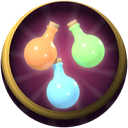
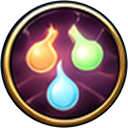
약사 스킬창: 아이콘 15개를 참고 그림에서 다시 자르고 칸 높이·배열을 맞춤
Claude-Session: https://claude.ai/code/session_018W6Dd9EFKmcsE9QZYMxXiJ

diff --git a/index.html b/index.html
@@ -655,6 +655,9 @@ small { font-size:.8em; }
   background:linear-gradient(#22406f, #142a52); box-shadow:inset 0 -2px 0 #c9973a; text-shadow:0 2px 0 #050c1c; }
 .fancy .skcat .r { margin-left:auto; }
 .fancy .skrow { gap:14px; padding:8px 12px; margin-bottom:8px; border-radius:10px; background:linear-gradient(#1f3a66, #172d52); box-shadow:inset 0 0 0 1.5px rgba(201,151,58,.55); color:#f4ead2; }
+/* 2026-11-11 참고 그림대로: 세 갈래의 칸 높이를 모두 같게(한 줄짜리 제작·패시브 칸도) → 가로줄이 서로 맞음, 아이콘 크게 */
+.fancy .skcol { display:flex; flex-direction:column; } .fancy .skrow { flex:1 1 0; min-height:122px; box-sizing:border-box; } .fancy .skrow:last-child { margin-bottom:0; }
+.fancy .skrow > .icon { flex:none; } .skrow .sktype, .skrow .sktag { white-space:nowrap; display:inline-block; }
 .fancy .skrow.learned { background:linear-gradient(#24427a, #1a335e); }
 .fancy .skrow.sel { outline:none; box-shadow:inset 0 0 0 2px #f2c040, 0 0 0 1px #8a5a14, 0 0 16px rgba(240,190,70,.55); }
 .fancy .skrow b { font-size:27px; color:#fff8e4; } .fancy .skrow .skinfo .small { font-size:18px; color:#e6dcc4; margin-top:3px; }
@@ -682,7 +685,7 @@ small { font-size:.8em; }
 .fancy .skslot.ult { outline:none; } .fancy .skslot.ult .skempty-slot, .fancy .skslot.ult > .icon { box-shadow:inset 0 0 0 2px #a060e0, 0 0 0 2px #7a3ab8, 0 0 10px rgba(160,96,224,.6); }
 .fancy .skslot.ult small { color:#6a2aa8; } .fancy .skslots .sknote { margin-left:24px; font-size:20px; color:#3b2a17; }
 .fancy .skempty { color:var(--ink); }
-.fancy .skdetail > .small { position:relative; font-size:20px; color:#e6dcc4; max-width:62%; }
+.window.fancy .skdetail > .small, .window.fancy .skdetail > .small.muted { position:relative; font-size:23px; line-height:1.55; color:#f4ead2; opacity:1; max-width:60%; }
 /* ---------- the other windows in the same ornate style: shop, quests, craft, jobs, pause/settings, confirm, death ---------- */
 .window.fancy .small { font-size:17px; } .window.fancy .muted { color:#7a6448; } .window.fancy .goldtxt { color:#9a6a10; } .window.fancy .good { color:#2e8a48; } .window.fancy .bad { color:#c0382a; }
 .window.fancy .sect { display:flex; align-items:center; gap:10px; margin:-10px -10px 10px; padding:10px 18px; border-radius:9px 9px 0 0; font-size:24px; color:#f6e6bf;

diff --git a/js/skillui.js b/js/skillui.js
@@ -109,7 +109,7 @@ Object.assign(UI.prototype, {
         const [tn, tc] = TYPE[d.type];
         const equipped = sk.slots.includes(d.id);
         const row = $('div', 'skrow' + (L ? ' learned' : '') + (this.skSel === d.id ? ' sel' : ''), col,
-          `${skillIcon(d, 76)}<div class="skinfo"><div><b>${d.name}</b> <span class="sktype t-${d.type}" style="background:${tc}">${tn}</span>${equipped ? ' <span class="sktag eq">장착</span>' : ''}</div>` +
+          `${skillIcon(d, 90)}<div class="skinfo"><div><b>${d.name}</b> <span class="sktype t-${d.type}" style="background:${tc}">${tn}</span>${equipped ? ' <span class="sktag eq">장착</span>' : ''}</div>` +
           `<div class="small">Lv <b>${L}</b>/${d.maxLv} · 해금 Lv${book.unlockLevel(d)}${d.mp ? ` · 기력 ${d.mp}` : ''}${d.cd ? ` · ${d.cd}초` : ''}${d.range && d.type !== 'passive' && d.type !== 'craft' ? ` · 사거리 ${d.range}m` : ''}</div></div>`);
         row.onclick = () => { this.skSel = d.id; G.audio.sfx('ui'); this.showSkills(show); };
         if (!max) { const lb = this.button(row, L ? '강화' : '습득', blk ? 'ivory lockb' : L ? 'gold' : 'blue', () => { const e = book.learn(d.id); if (e) return this.toast(e); G.audio.sfx('levelup'); this.showSkills(show); }); lb.classList.add('small'); if (blk) { lb.classList.add('locked'); lb.title = blk; } }

diff --git a/tools/browser-tests/skillicons.js b/tools/browser-tests/skillicons.js
@@ -22,7 +22,7 @@ const OUT = process.env.OUT || '/tmp/skillicons'; fs.mkdirSync(OUT, { recursive:
     R.win = await ev(() => ({ arts: document.querySelectorAll('.window .skart, .window .skround').length, slots: [...document.querySelectorAll('.skslot small')].map(x => x.textContent) }));
     await pg.screenshot({ path: `${OUT}/skillicons_win_${sz}.png`, timeout: 300000 });
     // 약사 1차 탭 (전직 조건은 건너뛰고 직업만 바꿈)
-    await ev(() => { G.ui.close && G.ui.close(); const s = G.player.sheet; s.p.job = 'pharmacist'; s.refreshSkills && s.refreshSkills(true); s.book.grantPoints(); s.recalc(); for (const id of ['ph1_a1', 'ph1_b1', 'ph1_c3']) s.book.learn(id); s.recalc(); G.ui.showSkills('pharmacist'); });
+    await ev(() => { G.ui.close && G.ui.close(); const s = G.player.sheet; s.p.job = 'pharmacist'; s.refreshSkills && s.refreshSkills(true); s.book.grantPoints(); s.recalc(); for (const id of ['ph1_a1', 'ph1_b1']) s.book.learn(id); s.recalc(); G.ui.showSkills('pharmacist'); });
     await pg.waitForTimeout(1200);
     R.ph = await ev(() => document.querySelectorAll('.window .skround').length);
     await pg.screenshot({ path: `${OUT}/skillicons_ph_${sz}.png`, timeout: 300000 });

diff --git a/tools/ui/skill_icons_crop.py b/tools/ui/skill_icons_crop.py
@@ -1,6 +1,6 @@
 """스킬 아이콘을 사용자가 준 스킬창 참고 그림(tools/ui/ref/*.png)에서 잘라 assets/ui/skills/<id>.png(128 px)로 만든다.
 - 견습생 기본 검술 8종: skill_window_ref.png, 둥근 사각형(모서리 밖 투명)
-- 약사 1차 15종: pharmacist_ref.png, 원형(원 밖 투명)
+- 약사 1차 15종: pharmacist_ref2.png(개편 뒤 스킬창), 원형(원 밖 투명). 예전 pharmacist_ref.png는 보관만
 게임은 js/skillui.js `SKILL_ART`로 씀.
 Usage: python3 tools/ui/skill_icons_crop.py
 """
@@ -41,18 +41,20 @@ def circle_box(im, cx, cy, r=52):
     mx, my = (x0 + x1) / 2, (y0 + y1) / 2
     return (round(cx - r + mx - d / 2), round(cy - r + my - d / 2), round(cx - r + mx + d / 2), round(cy - r + my + d / 2))
 
+# 2026-11-11 두 번째 참고 그림(개편 뒤 스킬창, tools/ui/ref/pharmacist_ref2.png 1482x1061): 15칸 모두 지금 스킬 그대로
+SRC_PH2 = os.path.join(ROOT, 'tools/ui/ref/pharmacist_ref2.png')
+PH2_COLS = {'a': 75, 'b': 560, 'c': 1047}
+PH2_ROWS = [235, 347, 460, 572, 680]
+PH2_IDS = {'a': ['ph1_a1', 'ph1_a4', 'ph1_a3', 'ph1_a6', 'ph1_a5'], 'b': ['ph1_b1', 'ph1_b2', 'ph1_b6', 'ph1_b4', 'ph1_b5'],
+           'c': ['ph1_c1', 'ph1_c7', 'ph1_c6', 'ph1_c8', 'ph1_c9']}
+
+PH2_FIXED = {'ph1_c7': (1010, 308, 1086, 384)}   # 파란 그림이 남색 배경과 섞여 자동으로 못 찾음
+
 def pharmacist():
-    im = Image.open(SRC_PH).convert('RGB')
-    # 2026-11-11 약사 개편: 그림의 칸 -> 지금 스킬 id. 지운 스킬(두 번 치기·전격 약병·활력제 제작·응급 복용·정화 약제)의 칸은
-    # 쓰지 않음, '약물 조제'(c 5번째, 위로 솟는 초록 화살표) 그림은 새 패시브 '약사 수련'(ph1_c9)에 씀. 새 스킬 그림은
-    # tools/blender/fx_pharm.py가 Blender로 그림(ph1_a6·b6·c6·c7·c8)
-    use = {('a', 1): 'ph1_a1', ('a', 3): 'ph1_a3', ('a', 4): 'ph1_a4', ('a', 5): 'ph1_a5', ('b', 1): 'ph1_b1', ('b', 2): 'ph1_b2',
-           ('b', 4): 'ph1_b4', ('b', 5): 'ph1_b5', ('c', 1): 'ph1_c1', ('c', 5): 'ph1_c9'}
-    for col, x in PH_COLS.items():
-        for i, y in enumerate(PH_ROWS):
-            k = use.get((col, i + 1))
-            if not k: continue
-            b = PH_FIXED.get(f'ph1_{col}{i + 1}') or circle_box(im, x, y)
+    im = Image.open(SRC_PH2).convert('RGB')
+    for col, x in PH2_COLS.items():
+        for i, y in enumerate(PH2_ROWS):
+            k = PH2_IDS[col][i]; b = PH2_FIXED.get(k) or circle_box(im, x, y)
             ic = im.crop(b).resize((SIZE, SIZE), Image.LANCZOS).convert('RGBA')
             m = Image.new('L', (SIZE * 4, SIZE * 4), 0); ImageDraw.Draw(m).ellipse((2, 2, SIZE * 4 - 3, SIZE * 4 - 3), fill=255)
             ic.putalpha(m.resize((SIZE, SIZE), Image.LANCZOS)); ic.save(os.path.join(OUT, k + '.png'), optimize=True); print(k, b)

diff --git a/docs/STATUS.md b/docs/STATUS.md
@@ -648,3 +648,7 @@
 - 회복진 음악은 음악 버스에 작게 섞으며 지역 BGM 유지. 장판 제거·사망·지역 이동·음악 음소거·재시전 시 중지, 비동기 다운로드 후 늦게 시작하지 않음.
 - 검증: core 504 통과/50 생략, skills2 638 통과. audio·novice-audio·pharmacist-audio 회귀 테스트 통과(회전 5타·착탄 10회·충돌 지연·음악 취소·음소거). 생성 MP3 전부 FFmpeg 디코딩 검사.
 - 기존 interaction-audio 테스트는 NPC 인사 30개/현재 NPC 53개 불일치로 실패(기존 manifest 미변경). Chromium 실행은 환경의 socket 제한으로 실패하여 브라우저/실기기 청음은 미확인.
+
+### 2026-11-11 — 약사 스킬창 아이콘·칸 배열을 참고 그림대로
+- 아이콘 15개를 사용자가 준 개편 뒤 스킬창 그림(`tools/ui/ref/pharmacist_ref2.png`)에서 다시 잘라 냄(`tools/ui/skill_icons_crop.py`) — Blender로 그렸던 새 스킬 5개(천근쇄약·약병폭격·아드레날린 주사·약 보호막·광역 회복진) 그림도 이 그림으로 바뀜. 주의: `python3 tools/blender/fx_pharm.py`를 인자 없이(또는 `icons`) 돌리면 그 5개를 Blender 그림으로 다시 덮어씀 → 그 뒤에는 `skill_icons_crop.py`를 다시 실행.
+- 스킬창 칸: 세 갈래의 칸 높이를 모두 같게(한 줄짜리 제작·패시브 칸 포함) 해서 가로줄이 서로 맞음, 아이콘 76 → 90, 아래 안내 문구를 크고 밝게, 꼬리표(공격·장착)가 낱말 중간에서 줄바꿈되지 않게(`index.html` `.fancy .skcol/.skrow`, `skillui.js`). 다른 직업 스킬창에도 같은 배열이 적용됨. 확인 `tools/browser-tests/skillicons.js`(1482×1061·390×844).

diff --git a/AGENTS.md b/AGENTS.md
@@ -122,7 +122,7 @@
 - `skilltest.js`: 180개 스킬 자동 시전 (`JOBS=painter ONLY=pt_a1 node skilltest.js`).
 
 ## 알려진 미완료
-- 스킬 아이콘은 견습생·약사 1차만 그림(`assets/ui/skills`, `tools/ui/skill_icons_crop.py`가 참고 그림 `tools/ui/ref/`에서 잘라 냄, `skillui.js` `SKILL_ART`), 나머지는 코드 생성 임시 아이콘.
+- 스킬 아이콘은 견습생·약사 1차만 그림(`assets/ui/skills`, `tools/ui/skill_icons_crop.py`가 참고 그림 `tools/ui/ref/`에서 잘라 냄 — 약사 15개는 `pharmacist_ref2.png`, `fx_pharm.py icons`를 돌린 뒤에는 다시 실행, `skillui.js` `SKILL_ART`), 나머지는 코드 생성 임시 아이콘.
 - 몬스터: 귀여운 모델(`cute_*`)은 리깅이 없어 모든 동작이 절차 동작. 불씨 비룡 계열(drake)만 예전 모델.
 - 모든 필드(40곳)가 `js/nature.js` 렌더(존별 `nature.ground`/`tint`/`rockTint`/`grass`/`lod`). 서리 고원은 색조만 차갑게(눈 덮인 잎 없음).
 - 휴대폰 화면은 자동 화면 확인만 함(실기기 미확인). 사람이 처음부터 끝까지 플레이한 검증 없음.
